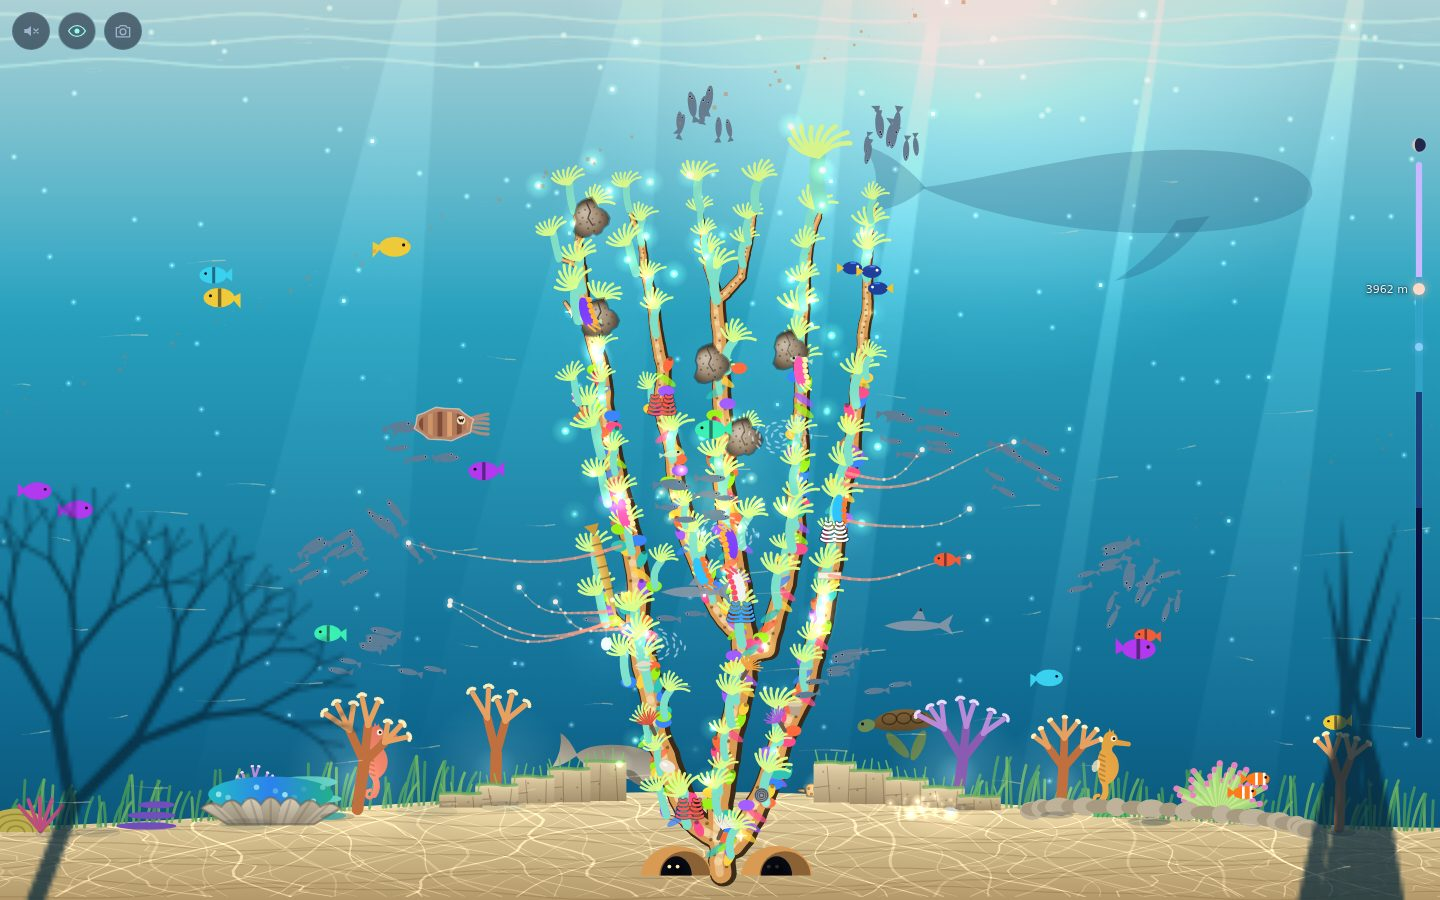
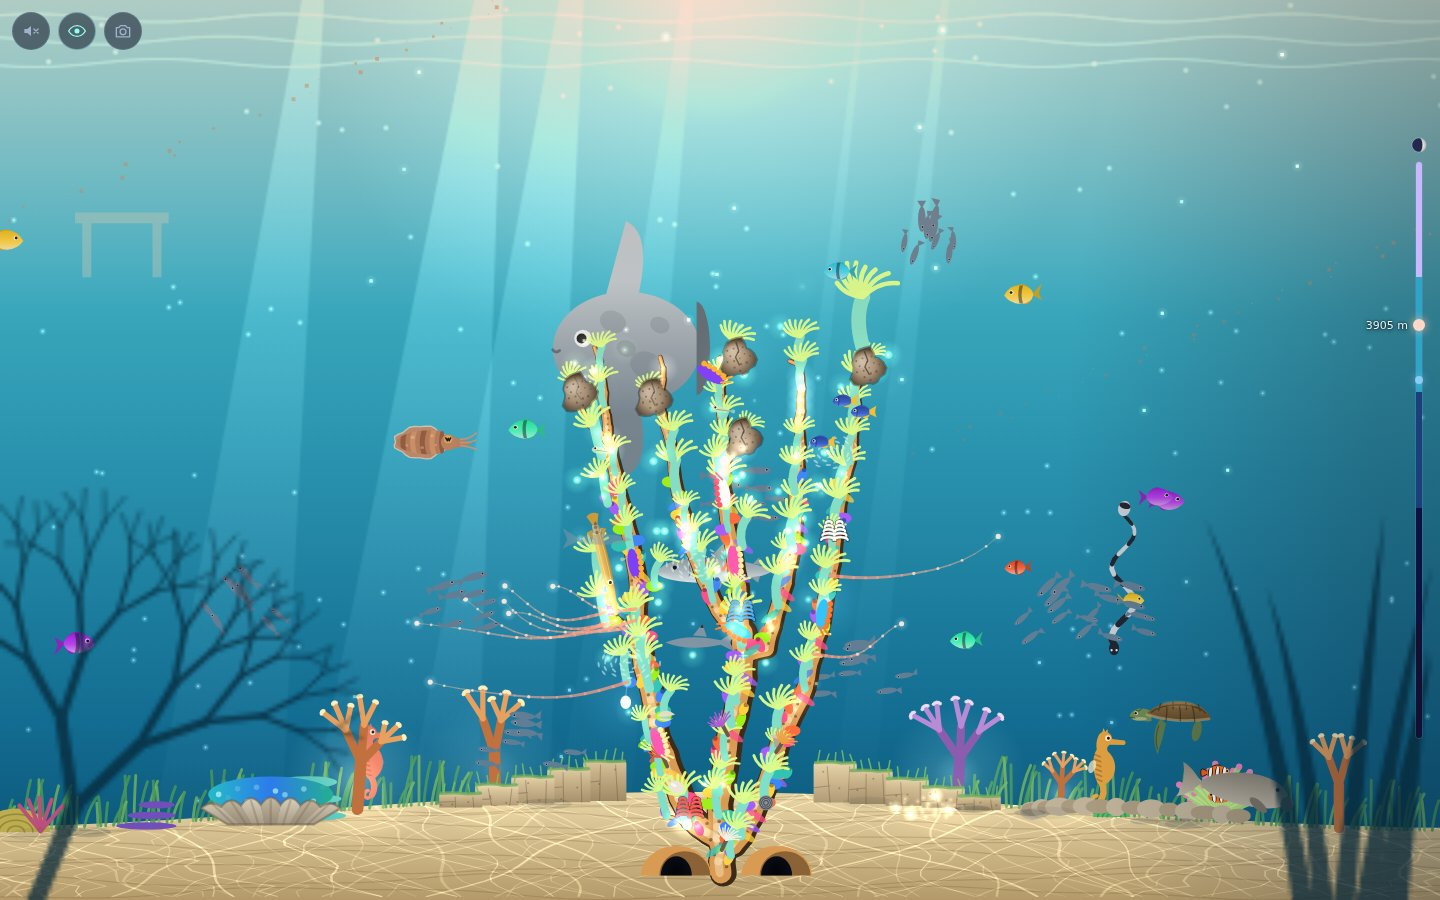
README pictures retaken; tools/readme.ts makes them

diff --git a/tools/readme.ts b/tools/readme.ts
@@ -1,0 +1,37 @@
+// Retakes the README's pictures (docs/readme/*.jpg): each zone in view mode (the panel hidden, H)
+// at a frozen moment chosen to show something of the zone, plus the panel on desktop and a phone.
+// Usage: node --no-warnings tools/readme.ts [name ...]   (default: all)
+
+import { withGame, type Viewport } from './browser.ts';
+
+const DESKTOP: Viewport = { name: 'desktop', width: 1440, height: 900, scale: 1, mobile: false };
+const PHONE: Viewport = { name: 'phone', width: 390, height: 844, scale: 3, mobile: true };
+
+type Shot = { name: string; query: string; vp: Viewport; view: boolean };
+const SHOTS: Shot[] = [
+  // A chimaera crossing the Silt Floor.
+  { name: 'silt-floor', query: '?bot=300&t=942', vp: DESKTOP, view: true },
+  // The whale far above, whose call carries down.
+  { name: 'midnight-water', query: '?bot=1800&t=1930', vp: DESKTOP, view: true },
+  // The Rasp grazing the slope, a manta overhead.
+  { name: 'twilight-shelf', query: '?bot=12000&t=11979', vp: DESKTOP, view: true },
+  { name: 'sunlit-crown', query: '?bot=17000&t=17113', vp: DESKTOP, view: true },
+  // A humpback breaching beside the crown, under the moon.
+  { name: 'breach', query: '?bot=22000&t=22291', vp: DESKTOP, view: true },
+  { name: 'panel', query: '?bot=11000&t=11000', vp: DESKTOP, view: false },
+  { name: 'phone', query: '?bot=17000&t=17000', vp: PHONE, view: false },
+];
+
+const want = process.argv.slice(2);
+await withGame(async (open) => {
+  for (const shot of SHOTS.filter((x) => !want.length || want.includes(x.name))) {
+    const { page, errors } = await open(shot.vp, shot.query);
+    await page.waitForTimeout(4000);
+    for (let i = 0; i < 6 && (await page.locator('.reader:not([hidden]), .away:not([hidden])').count()); i++) await page.keyboard.press('Escape');
+    if (shot.view) await page.keyboard.press('h');
+    await page.waitForTimeout(2500);
+    await page.screenshot({ path: `docs/readme/${shot.name}.jpg`, type: 'jpeg', quality: 85 });
+    console.log(`${errors.length ? 'ERR ' : 'ok  '} docs/readme/${shot.name}.jpg${errors.length ? ` ${errors[0]}` : ''}`);
+    await page.context().close();
+  }
+});

diff --git a/CLAUDE.md b/CLAUDE.md
@@ -41,6 +41,7 @@ These were written by the agent, not the user; fix them when wrong.
 - `node --no-warnings tools/audit.ts [desktop|mobile|landscape|small|small-landscape|narrow-desktop|tablet|tiny|laptop] [bot secs] [--big] [--sci]` — panel problems per tab: hidden-but-shown, out of the panel, small tap targets, unnamed controls, dim text, clipped button text, text spilling out of its card, texts drawn over each other, numbers cut short. Whole sweep (~30 min, run in the background): `for v in desktop mobile landscape small small-landscape narrow-desktop tablet tiny laptop; do for m in "" --big --sci; do node --no-warnings tools/audit.ts $v 300,2400,5000,9000,12000,19000,22000,26000 $m | grep -v " dim "; done; done`; 2 dim findings are known and intended
 - `node --no-warnings tools/fuzz.ts [--vp mobile|small|tiny] [--at <sec>] [--secs 120] [--ended] [--big] [--calm]` — random keys, panel clicks, scene taps mixed; console errors
 - `node --no-warnings tools/share.ts` — regenerates the link preview image (`src/client/icons/share.jpg`, og:image)
+- `node --no-warnings tools/readme.ts [name ...]` — retakes the README pictures (`docs/readme/*.jpg`) at chosen frozen moments
 - `node --no-warnings tools/screenshot.ts [--t <sec>] --shot <tag>=<url params> ...`
   — writes `screenshot/YYYY-MM-DD-HH-MM/{desktop,mobile,landscape}-<name>.png`. Look at them.
 

diff --git a/docs/PROGRESS.md b/docs/PROGRESS.md
@@ -1163,3 +1163,4 @@ date, what landed, what is half-done, what's next.
 - The whale far above the Midnight Water (the one whose call carries down) was an ellipse with a triangle for flukes: it is the same whale as by day in the Sunlit (blunt head, long taper, curved flukes, long pectoral fin), dim against the dark; the shape is shared (draw.ts whaleSilhouette).
 - Vent shrimp swarming the chimney were two columns of white rice grains: small pale shrimp, a carapace, the tail curled under it ending in a fan, two feelers; the swarm in one fill and one stroke (was a fill per grain).
 - The blacktip reef shark gets curved, swept-back fins (dorsal, pectoral, tail), the small second dorsal and anal fins, a finer snout and its gill slits (a mouth line made it smile; left out).
+- README pictures retaken with today's art by a new `tools/readme.ts` (they were scratch shots before): each zone in view mode at a moment that shows something of it (a chimaera on the Silt Floor, the far whale over the Midnight Water, the Rasp and a manta at the Twilight, the Sunlit by day, a humpback breaching under the moon), the desktop panel at the Twilight and a phone at the Sunlit.
